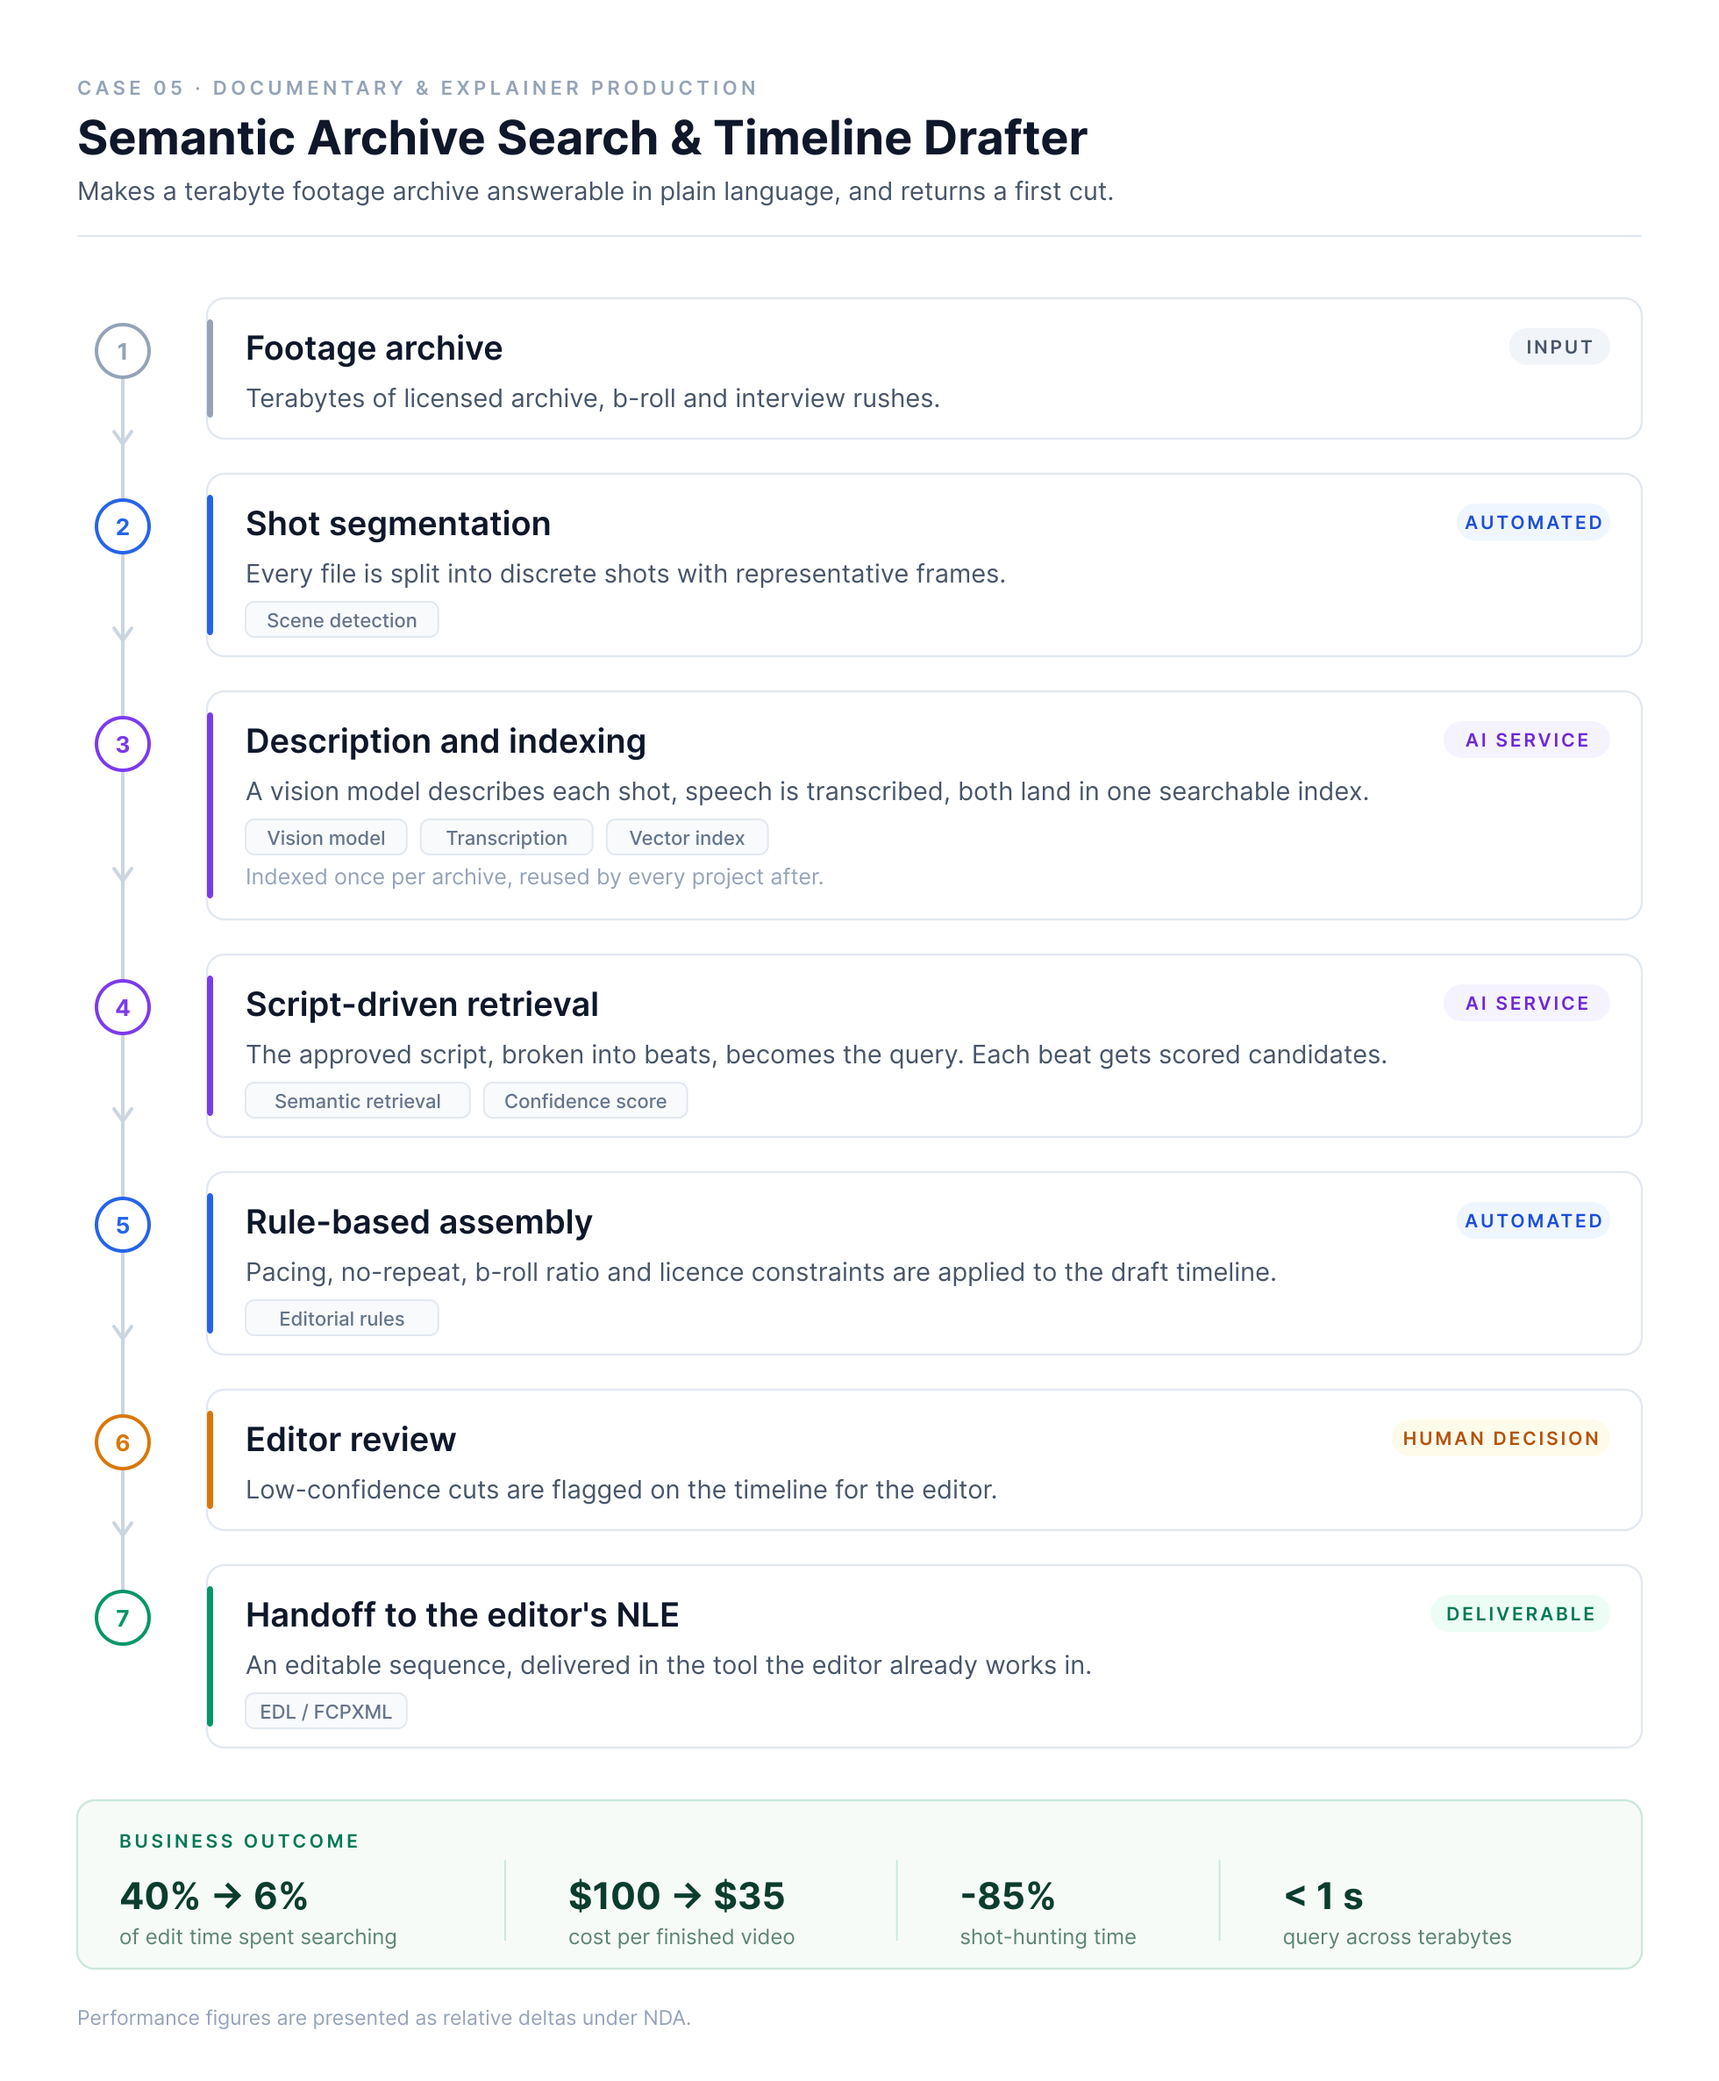
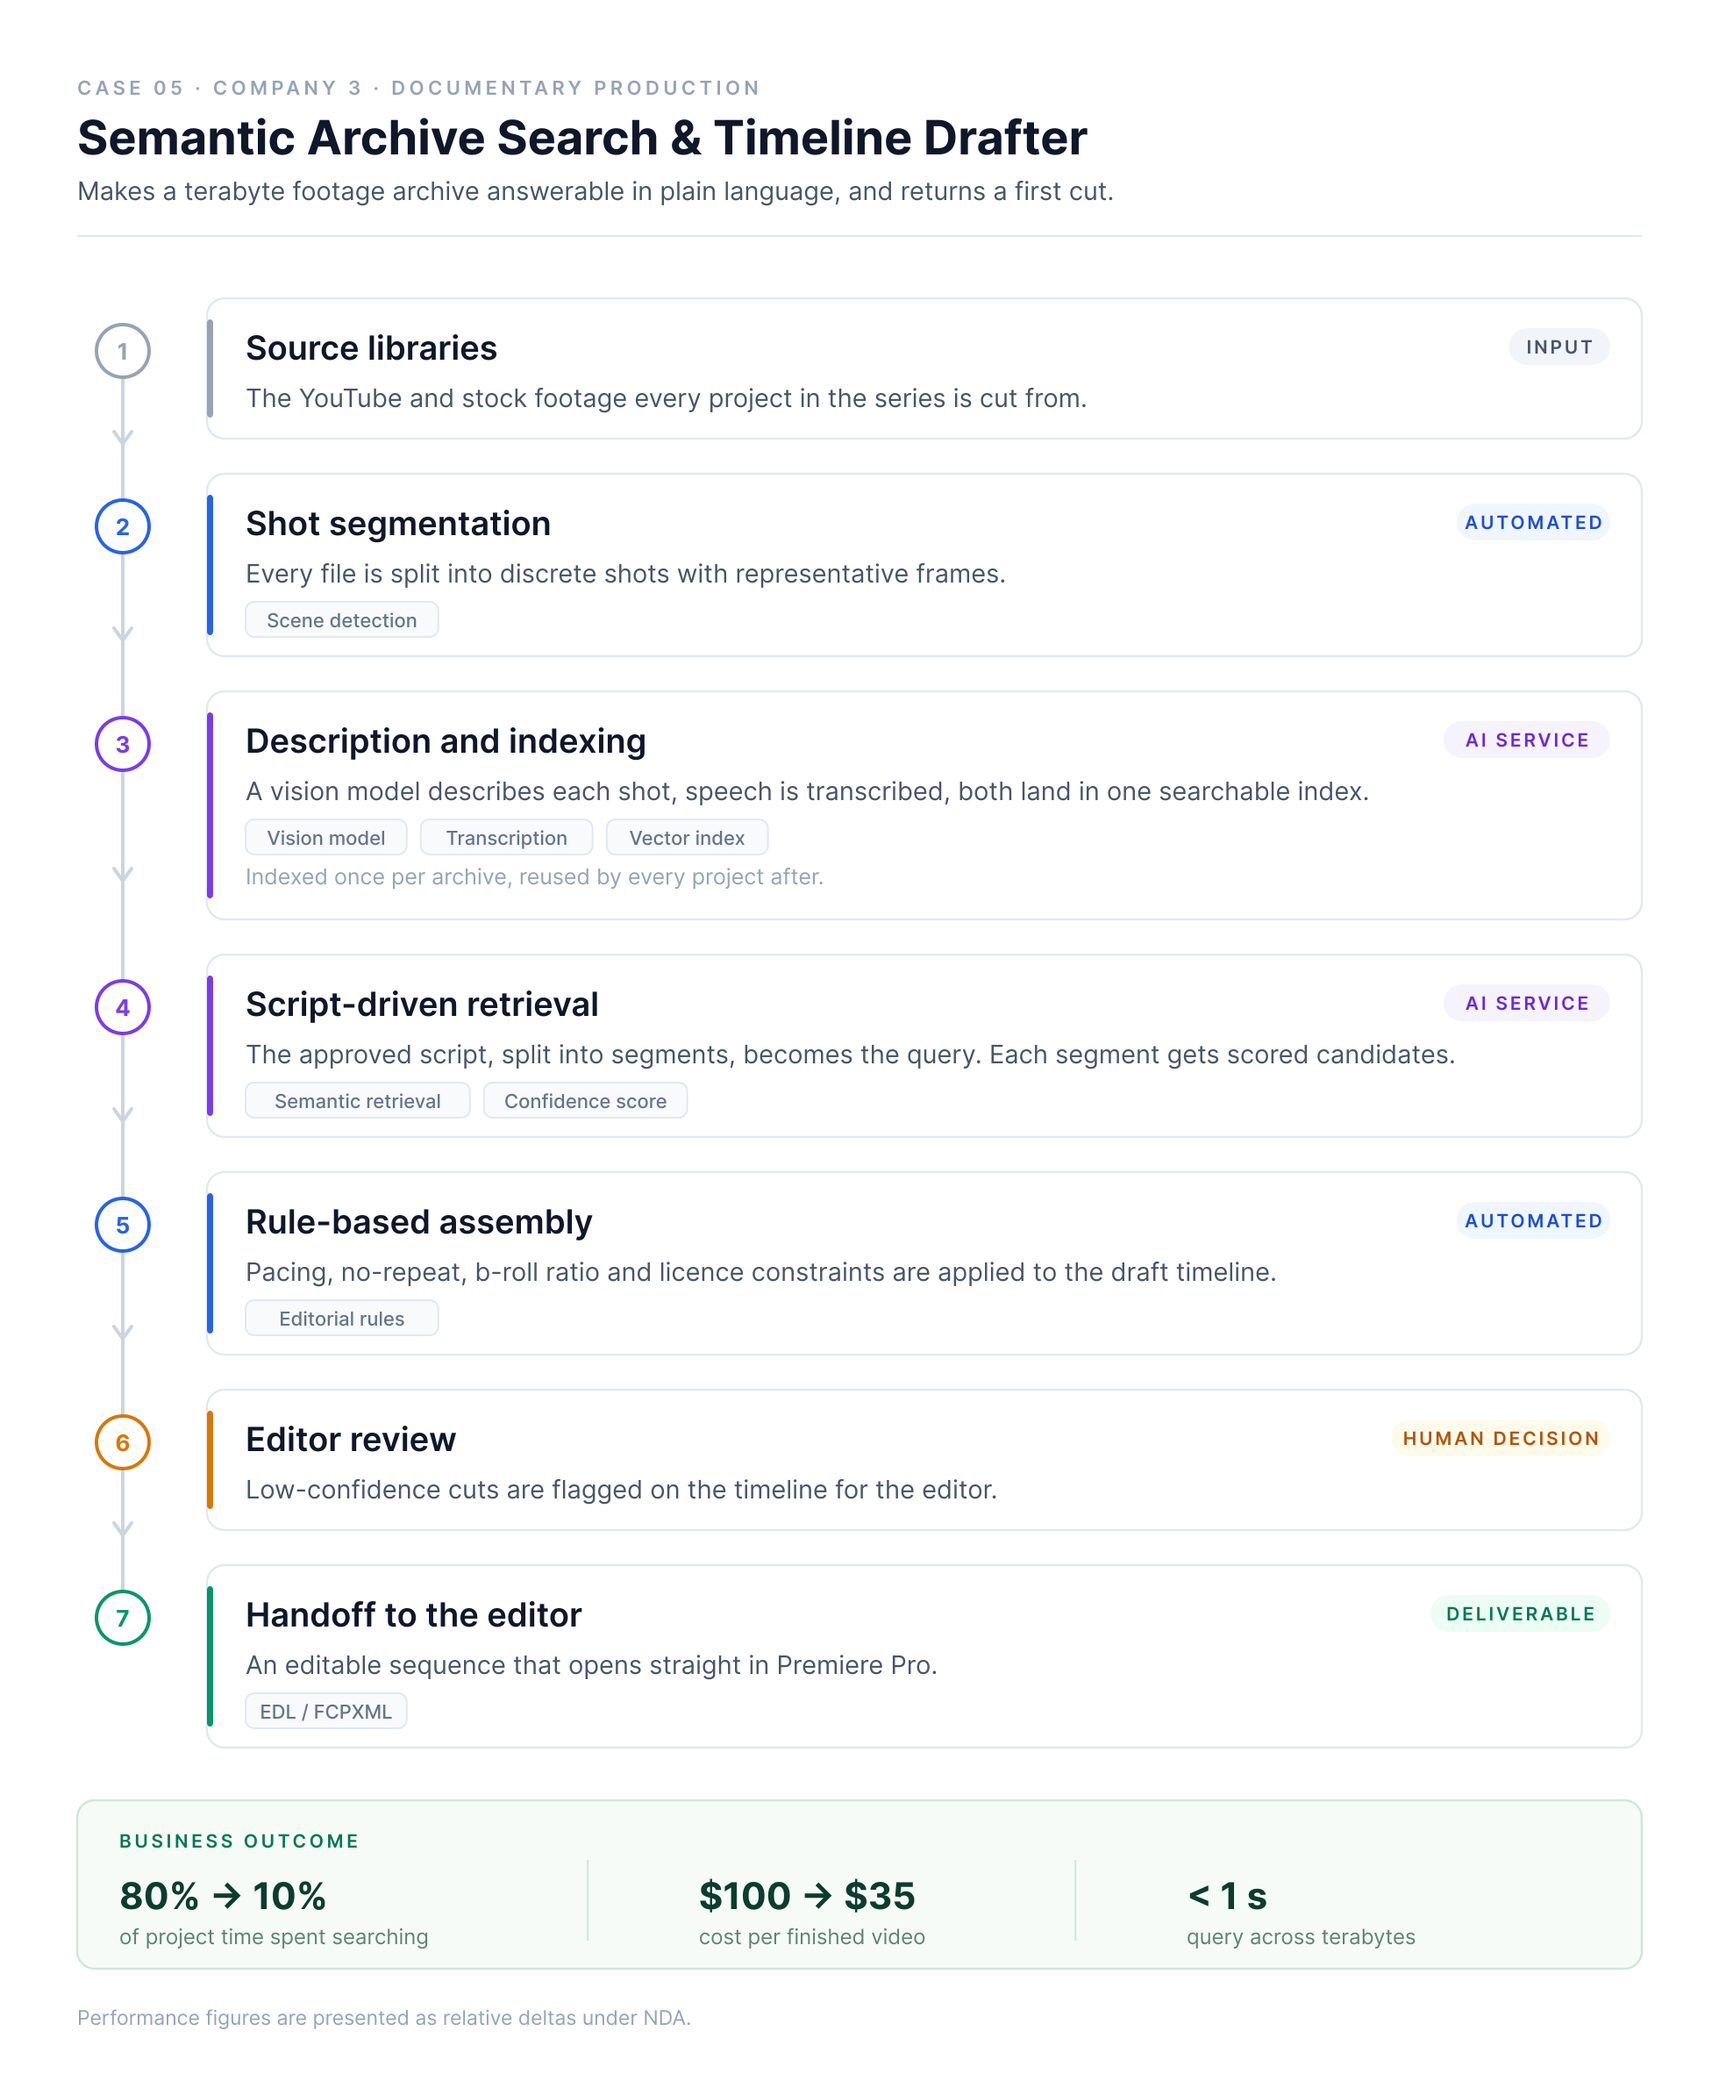
Case 5: real client context (YouTube/stock sources, 80% to 10%), Company 3, segments not beats

diff --git a/case5_semantic_dam.py b/case5_semantic_dam.py
@@ -4,12 +4,12 @@ import sys, os
 sys.path.insert(0, os.path.dirname(os.path.abspath(__file__)))
 from flowkit import Flow
 
-f = Flow("CASE 05 · DOCUMENTARY & EXPLAINER PRODUCTION",
+f = Flow("CASE 05 · COMPANY 3 · DOCUMENTARY PRODUCTION",
          "Semantic Archive Search & Timeline Drafter",
          "Makes a terabyte footage archive answerable in plain language, and returns a first cut.")
 
-f.step(1, "Footage archive",
-       "Terabytes of licensed archive, b-roll and interview rushes.",
+f.step(1, "Source libraries",
+       "The YouTube and stock footage every project in the series is cut from.",
        role="input")
 
 f.step(2, "Shot segmentation",
@@ -22,7 +22,7 @@ f.step(3, "Description and indexing",
        note="Indexed once per archive, reused by every project after.")
 
 f.step(4, "Script-driven retrieval",
-       "The approved script, broken into beats, becomes the query. Each beat gets scored candidates.",
+       "The approved script, split into segments, becomes the query. Each segment gets scored candidates.",
        role="ai", chips=["Semantic retrieval", "Confidence score"])
 
 f.step(5, "Rule-based assembly",
@@ -33,14 +33,13 @@ f.step(6, "Editor review",
        "Low-confidence cuts are flagged on the timeline for the editor.",
        role="human")
 
-f.step(7, "Handoff to the editor's NLE",
-       "An editable sequence, delivered in the tool the editor already works in.",
+f.step(7, "Handoff to the editor",
+       "An editable sequence that opens straight in Premiere Pro.",
        role="output", chips=["EDL / FCPXML"])
 
 f.outcome([
-    ("40% → 6%", "of edit time spent searching"),
+    ("80% → 10%", "of project time spent searching"),
     ("$100 → $35", "cost per finished video"),
-    ("-85%", "shot-hunting time"),
     ("< 1 s", "query across terabytes"),
 ])
 f.footnote("Performance figures are presented as relative deltas under NDA.")

diff --git a/case1_autonomous_pipeline.py b/case1_autonomous_pipeline.py
@@ -31,7 +31,7 @@ f.step(4, "Parallel asset generation",
        note="Higgsfield drives the video models, ElevenLabs the voices.")
 
 f.step(5, "Automated assembly and render",
-       "Forced alignment turns the voiceover into a timing grid; shots snap to narration beats.",
+       "Forced alignment turns the voiceover into a timing grid; shots snap to it automatically.",
        role="system", chips=["Forced Alignment", "Captions", "Auto-ducked music", "Batch render"],
        note="The whole variant matrix renders unattended.")
 
